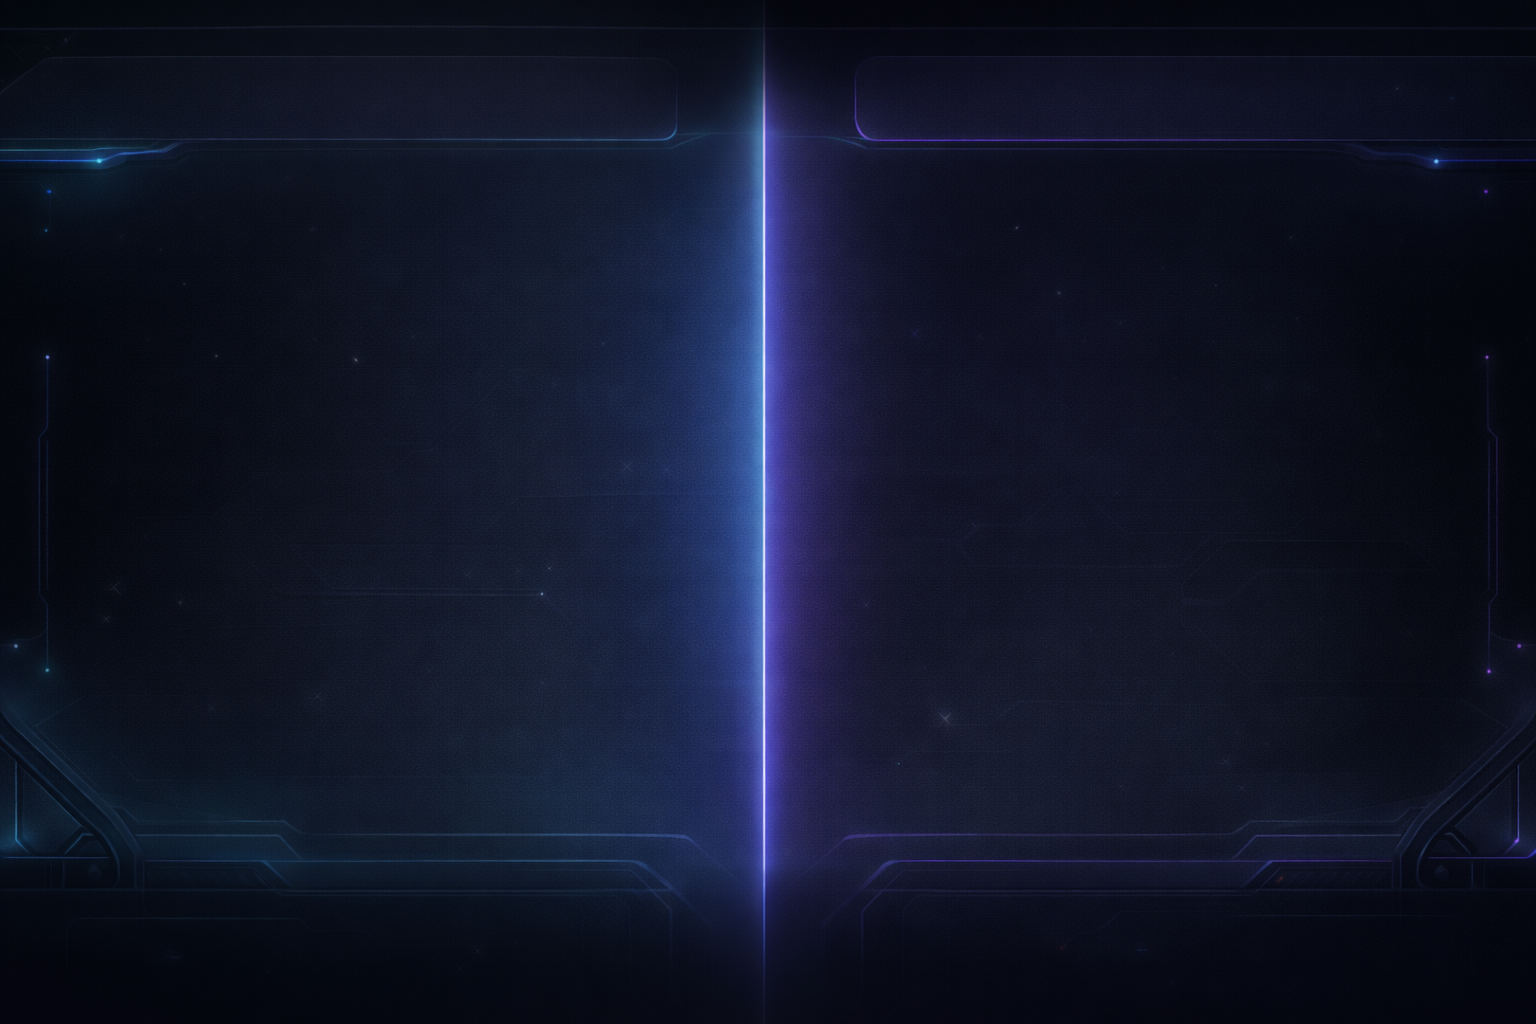
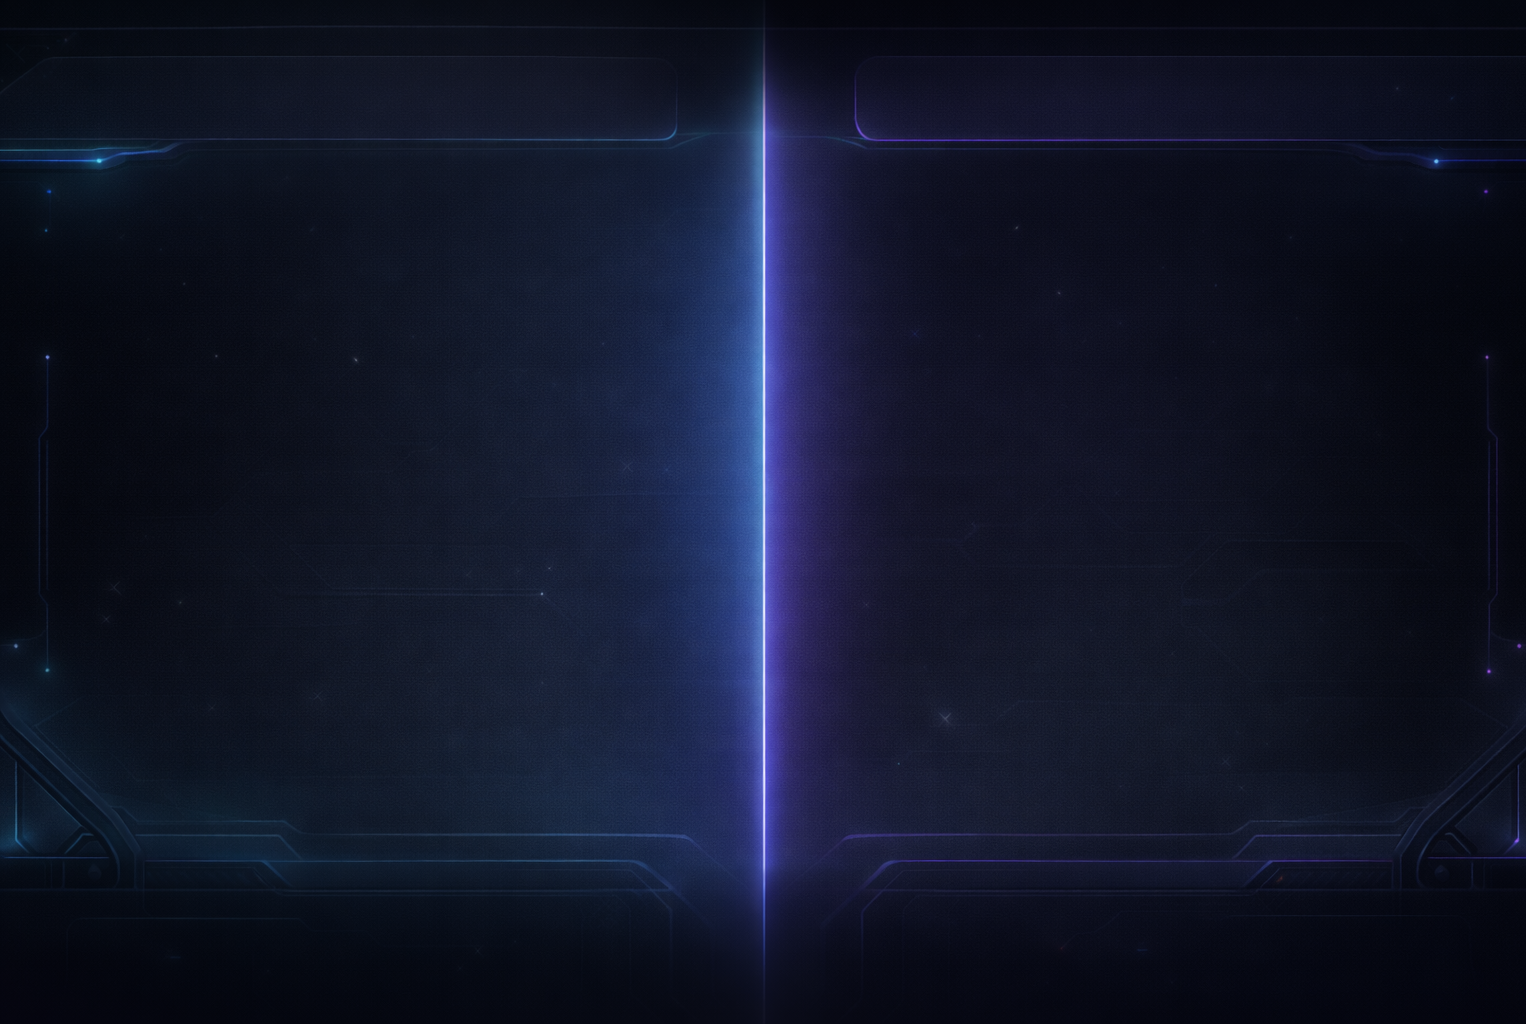
misc ui

diff --git a/web/style.css b/web/style.css
@@ -45,25 +45,25 @@ body {
 .dark-theme::before {
     content: '';
     position: absolute;
-    top: -50px;
-    left: -50px;
-    right: -50px;
-    bottom: -50px;
+    top: 10px;
+    left: 10px;
+    right: 10px;
+    bottom: 10px;
     background: url('assets/UI/battlefield_bg.png');
-    background-size: cover;
-    background-position: center;
+    background-size: 100% 100%;
+    background-position: 20px center;
     background-repeat: no-repeat;
     z-index: -1;
-    animation: bg-wave 15s ease-in-out infinite alternate;
+    animation: bg-wave 20s ease-in-out infinite alternate;
 }
 
 @keyframes bg-wave {
     0% {
-        transform: translate(0, 0) scale(1);
+        transform: translate(0, 0) scale(0.97);
     }
 
     100% {
-        transform: translate(-20px, 15px) scale(1.05);
+        transform: translate(-10px, 8px) scale(1);
     }
 }
 
@@ -229,6 +229,8 @@ body {
     display: flex;
     align-items: center;
     justify-content: center;
+    background: rgba(20, 22, 30, 0.95);
+    backdrop-filter: blur(12px);
     border: 2px solid var(--accent-red);
     box-shadow: 0 0 15px rgba(255, 62, 62, 0.4);
     z-index: 10;
